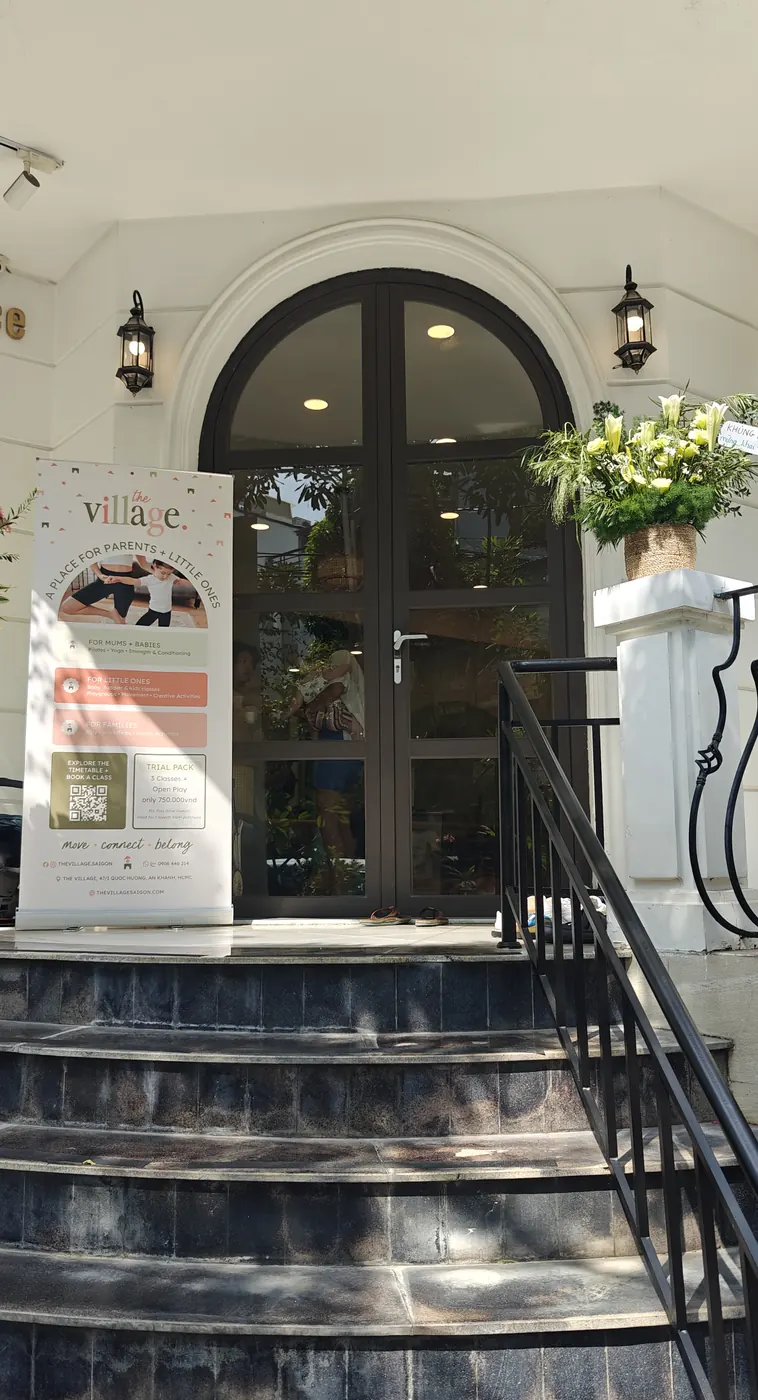
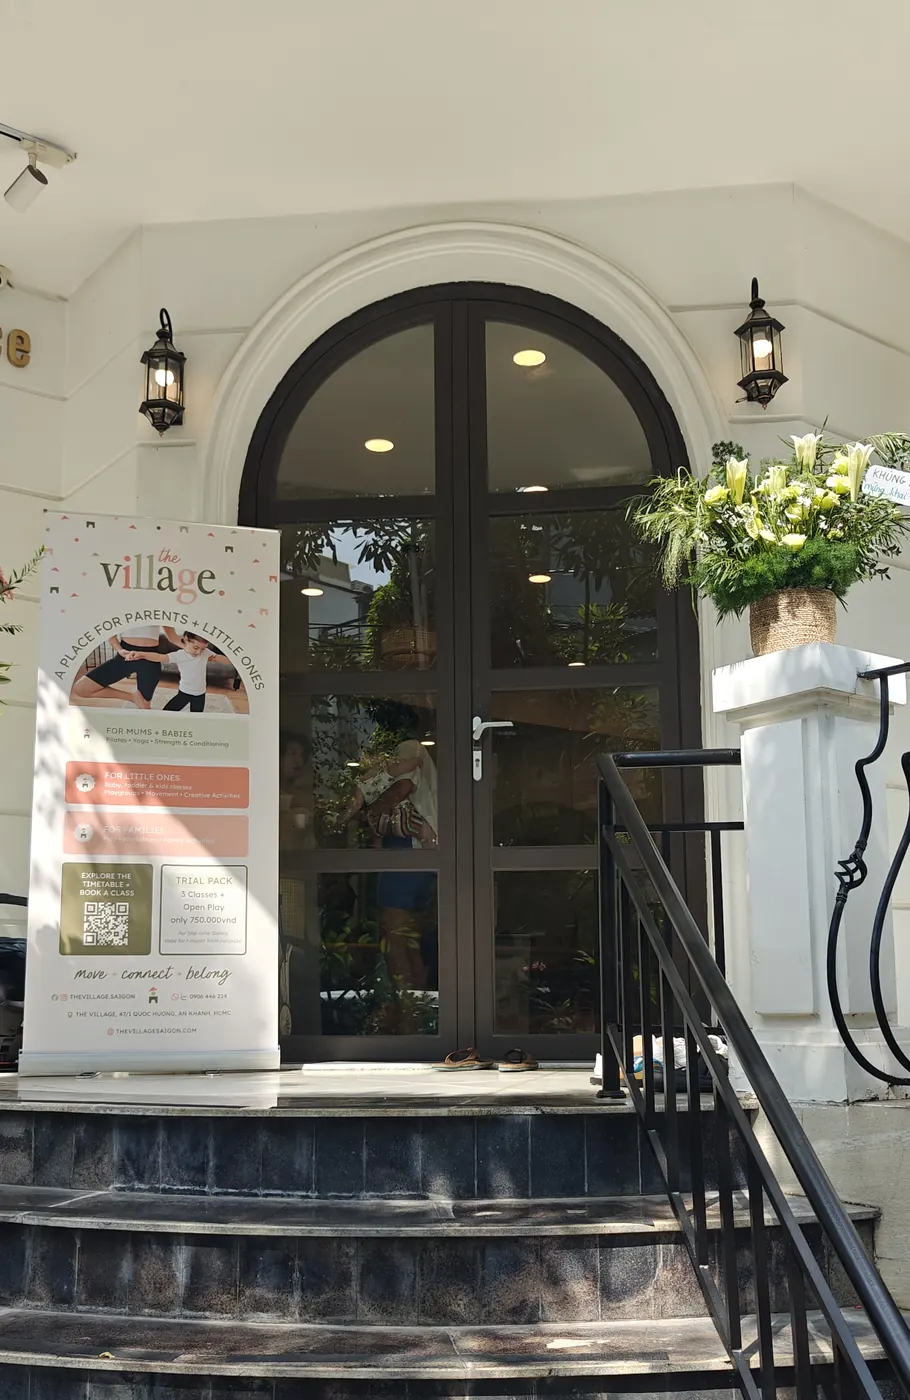
Opening photos: header shows the whole archway; private hire shows Phuong whole, not a face close-up (Jack)
Claude-Session: https://claude.ai/code/session_01KTmKzUrfkm65dkr3YdXDcd

diff --git a/apps/website/src/app/globals.css b/apps/website/src/app/globals.css
@@ -27,7 +27,7 @@ a { color: var(--forrest-deep); }
 .hero-text { flex: 1 1 420px; display: flex; flex-direction: column; gap: 20px; }
 .hero-text h1 { font-size: clamp(38px, 5vw, 60px); line-height: 1.05; }
 .lead { margin: 0; font-size: 19px; color: var(--muted); }
-.hero-pic { flex: 1 1 420px; position: relative; min-height: 420px; }
+.hero-pic { flex: 1 1 420px; position: relative; min-height: 540px; }
 .arch { position: absolute; inset: 0 0 0 30px; border-radius: 200px 200px 32px 32px; background: var(--sage); display: flex; align-items: center; justify-content: center; }
 .blob { position: absolute; right: -10px; top: -10px; width: 90px; height: 90px; border-radius: 50%; background: var(--rose); }
 .band { background: #fff; padding: 64px 0; }
@@ -45,8 +45,10 @@ a { color: var(--forrest-deep); }
 .whats-card strong { font-size: 19px; margin-top: 6px; }
 .whats-pic { height: 200px; border-radius: 18px; display: flex; align-items: center; justify-content: center; overflow: hidden; }
 .whats-photo { width: 100%; height: 100%; object-fit: cover; display: block; }
+/* A tall photo shown whole (Jack, 17 Nov: not zoomed in on a face), on the card's colour. */
+.whats-photo.whole { object-fit: contain; }
 .arch { overflow: hidden; }
-.arch-photo { width: 100%; height: 100%; object-fit: cover; object-position: center 45%; display: block; }
+.arch-photo { width: 100%; height: 100%; object-fit: cover; object-position: center 20%; display: block; }
 .sage { background: var(--sage); } .rose { background: var(--rose); } .sky { background: var(--sky); }
 .visit { display: flex; flex-wrap: wrap; gap: 32px; align-items: center; padding-top: 56px; padding-bottom: 56px; }
 .visit > div { flex: 1 1 380px; }
@@ -55,7 +57,7 @@ a { color: var(--forrest-deep); }
 .map-credit { position: absolute; right: 10px; bottom: 8px; font-size: 11px; color: #3b3a2a; background: rgba(255, 255, 255, .75); padding: 1px 6px; border-radius: 6px; }
 .footer { display: flex; justify-content: space-between; flex-wrap: wrap; gap: 12px; padding-top: 24px; padding-bottom: 32px; border-top: 1px solid var(--sage); font-size: 14px; }
 .footer-links { display: flex; gap: 16px; }
-@media (max-width: 600px) { .hero-pic { min-height: 280px; } .band, .visit { padding-top: 40px; padding-bottom: 40px; } }
+@media (max-width: 600px) { .hero-pic { min-height: 400px; } .band, .visit { padding-top: 40px; padding-bottom: 40px; } }
 
 /* Team feedback 30 Oct: stacked buttons on phones are all full width. */
 @media (max-width: 640px) {

diff --git a/apps/website/src/app/[locale]/page.tsx b/apps/website/src/app/[locale]/page.tsx
@@ -87,7 +87,7 @@ export default async function Home({ params }: PageProps<"/[locale]">) {
                 <a key={c.k} className="whats-card" href={c.href}>
                   <div className={`whats-pic ${c.cls}`}>
                     {/* eslint-disable-next-line @next/next/no-img-element */}
-                    <img className="whats-photo" style={c.k === "hire" ? { objectPosition: "center 15%" } : undefined} src={c.photo} alt={t(`photos.${c.k === "openPlay" ? "openPlay" : c.k}`)} width={750} height={1000} loading="lazy" />
+                    <img className={`whats-photo${c.k === "hire" ? " whole" : ""}`} src={c.photo} alt={t(`photos.${c.k === "openPlay" ? "openPlay" : c.k}`)} width={750} height={1000} loading="lazy" />
                   </div>
                   <strong>{t(`${c.k}.title`)}</strong>
                   <span className="muted">{t(`${c.k}.body`)}</span>
